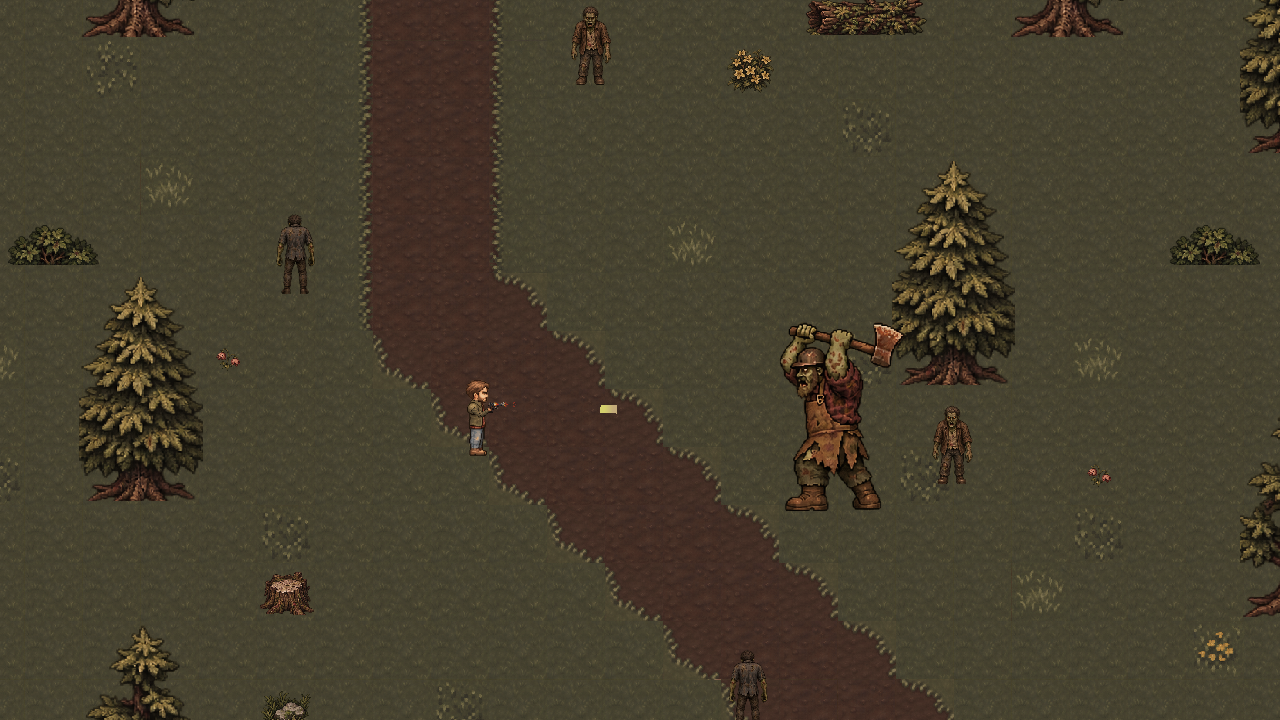
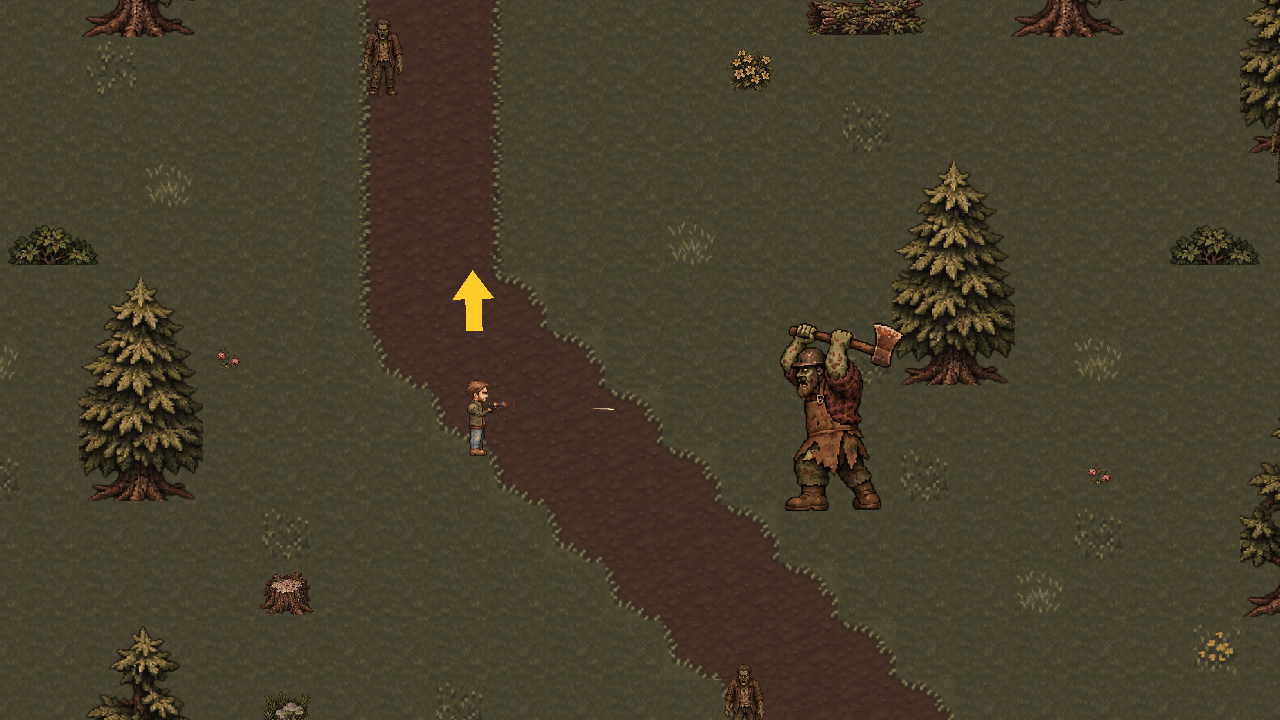
Atualiza textos, créditos e capturas da gameplay v3

diff --git a/docs/index.html b/docs/index.html
@@ -10,7 +10,7 @@
   <meta property="og:description" content="Duas regiões. Um carro quebrado. Nenhuma garantia de voltar. Jogue gratuitamente no Windows.">
   <meta property="og:type" content="website">
   <meta property="og:locale" content="pt_BR">
-  <meta property="og:image" content="https://leucimar.github.io/ultima-rota/assets/screenshot1.png?v=20261113">
+  <meta property="og:image" content="https://leucimar.github.io/ultima-rota/assets/screenshot1.png?v=20261114">
   <meta property="og:url" content="https://leucimar.github.io/ultima-rota/">
   <meta name="twitter:card" content="summary_large_image">
   <link rel="canonical" href="https://leucimar.github.io/ultima-rota/">
@@ -18,10 +18,10 @@
   <link rel="preconnect" href="https://fonts.googleapis.com">
   <link rel="preconnect" href="https://fonts.gstatic.com" crossorigin>
   <link href="https://fonts.googleapis.com/css2?family=Barlow+Condensed:wght@500;600;700;800&family=DM+Sans:wght@400;500;600;700&display=swap" rel="stylesheet">
-  <link rel="stylesheet" href="style.css?v=20261113">
-  <link rel="stylesheet" href="refresh.css?v=20261113">
-  <script src="site-config.js?v=20261113" defer></script>
-  <script src="script.js?v=20261113" defer></script>
+  <link rel="stylesheet" href="style.css?v=20261114">
+  <link rel="stylesheet" href="refresh.css?v=20261114">
+  <script src="site-config.js?v=20261114" defer></script>
+  <script src="script.js?v=20261114" defer></script>
 </head>
 <body>
   <a class="skip" href="#conteudo">Pular para o conteúdo</a>
@@ -53,17 +53,15 @@
         <a class="button primary download-link" href="https://github.com/leucimar/ultima-rota/releases/latest/download/UltimaRota-Windows-x64.zip"><svg aria-hidden="true"><use href="#icon-download"/></svg> BAIXAR PARA WINDOWS <svg class="button-arrow" aria-hidden="true"><use href="#arrow"/></svg></a>
         <p class="download-meta"><svg><use href="#windows"/></svg> Windows 64 bits <span>·</span> Gratuito <span class="release-details">· v0.1.0 · 79,4 MB</span></p>
       </div>
-      <div class="hero-side" aria-hidden="true"><span>RELATÓRIO DE CAMPO — 01</span><i></i><span>DESTINO: NORTE ↑</span></div>
       <div class="hero-bottom wrap"><a href="#sobre">EXPLORE A ÚLTIMA ROTA <span>↓</span></a><span>UMA EXPEDIÇÃO. NENHUMA GARANTIA.</span></div>
     </section>
 
     <div class="ticker" aria-hidden="true"><div>EXPLORE <span>✳</span> SOBREVIVA <span>✳</span> EVOLUA <span>✳</span> ENCONTRE SUA ROTA <span>✳</span> EXPLORE <span>✳</span> SOBREVIVA <span>✳</span> EVOLUA <span>✳</span></div></div>
-    <aside class="version-note wrap" aria-label="Versão das imagens e do download"><span class="version-tag">VISUAL RENOVADO</span><p>As capturas mostram a versão em desenvolvimento: novos cenários, personagens e inimigos. O download disponível continua sendo a <strong>v0.1.0</strong>.</p></aside>
 
     <section class="about section wrap" id="sobre" aria-labelledby="about-title">
       <div class="section-index"><span>01 / O JOGO</span><span>QUANDO OS RUMORES SE TORNAM REAIS.</span></div>
       <div class="about-layout">
-        <div class="about-art"><img src="assets/screenshot1.png?v=20261113" width="1280" height="720" loading="lazy" alt="O fazendeiro e seu carro próximo ao celeiro, na floresta de Última Rota."><span class="image-label"><span class="live-dot"></span> PONTO DE PARTIDA / A FAZENDA</span><div class="art-corner" aria-hidden="true">↑<br>NORTE</div></div>
+        <div class="about-art"><img src="assets/screenshot1.png?v=20261114" width="1280" height="720" loading="lazy" alt="O fazendeiro e seu carro próximo ao celeiro, na floresta de Última Rota."><span class="image-label"><span class="live-dot"></span> PONTO DE PARTIDA / A FAZENDA</span></div>
         <div class="about-copy"><p class="eyebrow muted">NÃO DÁ PARA FICAR.</p><h2 id="about-title">UM CARRO QUEBRADO.<br>UM MUNDO <em>EM RUÍNAS.</em></h2>
           <p>Um fazendeiro escuta rumores sobre um vírus e uma região segura ao norte. Quando encontra seu rebanho atacado, fugir deixa de ser uma escolha.</p>
           <p>Mas o carro não funciona. Para repará-lo, você precisa atravessar as zonas da floresta, encontrar um mapa no acampamento e chegar à cidade em busca de uma chave, combustível e uma bateria.</p>
@@ -86,13 +84,13 @@
     </div></section>
 
     <section class="media section wrap" id="midia" aria-labelledby="media-title">
-      <div class="section-index"><span>03 / DENTRO DO JOGO</span><span>CAPTURAS ATUALIZADAS / EM DESENVOLVIMENTO</span></div>
+      <div class="section-index"><span>03 / DENTRO DO JOGO</span><span>CAPTURAS DO JOGO</span></div>
       <div class="section-heading"><h2 id="media-title">O PERIGO NÃO<br><em>FICA PARADO.</em></h2><p>Floresta, cidade e ameaças com arte renovada.<br>Selecione uma imagem para ampliar.</p></div>
       <!-- Troque estes PNGs por novas capturas mantendo os nomes; não há build da página. -->
       <div class="gallery">
-        <a class="shot shot-wide" href="assets/screenshot2.png?v=20261113" data-caption="A cidade — ruas e construções com arte renovada. Captura da versão em desenvolvimento."><img src="assets/screenshot2.png?v=20261113" loading="lazy" width="1280" height="720" alt="O sobrevivente nas ruas da cidade à noite, com construções detalhadas e postes acesos."><span><b>01 / A CIDADE</b><i>EXPLORAR NÃO É ESTAR A SALVO.</i><strong aria-hidden="true">↗</strong></span></a>
-        <a class="shot" href="assets/screenshot3.png?v=20261113" data-caption="O acampamento — novas ameaças aguardam na viagem de retorno."><img src="assets/screenshot3.png?v=20261113" loading="lazy" width="1280" height="720" alt="Confronto com o Incendiário na região do acampamento."><span><b>02 / O RETORNO</b><i>O CAMINHO MUDOU.</i><strong aria-hidden="true">↗</strong></span></a>
-        <a class="shot" href="assets/screenshot4.png?v=20261113" data-caption="A floresta — derrote as ameaças para abrir sua próxima passagem."><img src="assets/screenshot4.png?v=20261113" loading="lazy" width="1280" height="720" alt="Combate contra um chefe na floresta em pixel art."><span><b>03 / O CONFRONTO</b><i>NÃO BAIXE A GUARDA.</i><strong aria-hidden="true">↗</strong></span></a>
+        <a class="shot shot-wide" href="assets/screenshot2.png?v=20261114" data-caption="A cidade — procure as peças, enfrente os zumbis e encontre o caminho de volta."><img src="assets/screenshot2.png?v=20261114" loading="lazy" width="1280" height="720" alt="O sobrevivente atirando nas ruas da cidade à noite, com os projéteis atualizados."><span><b>01 / A CIDADE</b><i>EXPLORAR NÃO É ESTAR A SALVO.</i><strong aria-hidden="true">↗</strong></span></a>
+        <a class="shot" href="assets/screenshot3.png?v=20261114" data-caption="O acampamento — novas ameaças aguardam na viagem de retorno."><img src="assets/screenshot3.png?v=20261114" loading="lazy" width="1280" height="720" alt="Confronto com o Incendiário na região do acampamento."><span><b>02 / O RETORNO</b><i>O CAMINHO MUDOU.</i><strong aria-hidden="true">↗</strong></span></a>
+        <a class="shot" href="assets/screenshot4.png?v=20261114" data-caption="A floresta — derrote as ameaças para abrir sua próxima passagem."><img src="assets/screenshot4.png?v=20261114" loading="lazy" width="1280" height="720" alt="Combate contra um chefe na floresta em pixel art."><span><b>03 / O CONFRONTO</b><i>NÃO BAIXE A GUARDA.</i><strong aria-hidden="true">↗</strong></span></a>
       </div>
       <div class="enemy-showcase" aria-labelledby="enemy-title"><div><p class="eyebrow muted">AS AMEAÇAS TAMBÉM MUDARAM.</p><h3 id="enemy-title">RECONHEÇA O PERIGO.</h3><p>Novas silhuetas, roupas desgastadas e pele deteriorada. Cada encontro pede uma reação diferente.</p></div><div class="enemy-roster"><figure><img src="assets/zumbi-normal.png" width="320" height="360" loading="lazy" alt="Zumbi normal com jaqueta marrom e pele esverdeada."><figcaption><span>01</span> NORMAL</figcaption></figure><figure><img src="assets/zumbi-corredor.png" width="320" height="360" loading="lazy" alt="Zumbi corredor magro, com camisa escura rasgada."><figcaption><span>02</span> VELOCISTA</figcaption></figure><figure><img src="assets/zumbi-tanque.png" width="320" height="360" loading="lazy" alt="Zumbi tanque, maior e mais robusto que os demais."><figcaption><span>03</span> TANQUE</figcaption></figure></div></div>
     </section>
@@ -102,9 +100,9 @@
       <div class="spec-panel"><div class="spec-title"><svg><use href="#windows"/></svg><h3>WINDOWS / CONFIGURAÇÃO DE REFERÊNCIA</h3></div><table><caption class="sr-only">Compatibilidade e configuração inicial sugerida</caption><tbody><tr><th scope="row">Sistema</th><td>Windows 10 ou 11 · 64 bits</td></tr><tr><th scope="row">Processador</th><td>x64 com suporte a SSE2</td></tr><tr><th scope="row">Memória</th><td>4 GB de RAM sugeridos</td></tr><tr><th scope="row">Gráficos</th><td>GPU compatível com DirectX 11</td></tr><tr><th scope="row">Armazenamento</th><td>1 GB livre sugerido</td></tr><tr><th scope="row">Controles</th><td>Teclado e mouse</td></tr></tbody></table><p class="spec-note">Referência inicial de compatibilidade. O hardware mínimo de desempenho ainda não foi medido em diferentes computadores. Internet necessária apenas para o download.</p></div>
     </div></section>
 
-    <section class="download section wrap" id="download" aria-labelledby="download-title"><div class="download-card"><div class="download-decoration" aria-hidden="true">↑</div><p class="eyebrow"><span class="live-dot"></span> A SUA ROTA COMEÇA AQUI.</p><h2 id="download-title">NÃO ESPERE<br><em>AMANHECER.</em></h2><p>Prepare a arma. Encontre as peças. Volte para o carro.<br>O norte ainda pode ser uma saída.</p><a class="button primary download-link" href="https://github.com/leucimar/ultima-rota/releases/latest/download/UltimaRota-Windows-x64.zip"><svg aria-hidden="true"><use href="#icon-download"/></svg> BAIXAR ÚLTIMA ROTA <svg class="button-arrow" aria-hidden="true"><use href="#arrow"/></svg></a><p class="download-meta"><svg><use href="#windows"/></svg> Windows 64 bits <span>·</span> Gratuito <span class="release-details">· v0.1.0 · 79,4 MB</span></p><p class="build-note">Download atual: v0.1.0. A atualização visual apresentada nesta página ainda está em desenvolvimento.</p><a class="release-link" href="https://github.com/leucimar/ultima-rota/releases/latest" target="_blank" rel="noopener noreferrer">Ver versão e informações do download ↗</a></div></section>
+    <section class="download section wrap" id="download" aria-labelledby="download-title"><div class="download-card"><div class="download-decoration" aria-hidden="true">↑</div><p class="eyebrow"><span class="live-dot"></span> A SUA ROTA COMEÇA AQUI.</p><h2 id="download-title">NÃO ESPERE<br><em>AMANHECER.</em></h2><p class="download-copy">Prepare a arma. Encontre as peças. Volte para o carro. O norte ainda pode ser uma saída.</p><a class="button primary download-link" href="https://github.com/leucimar/ultima-rota/releases/latest/download/UltimaRota-Windows-x64.zip"><svg aria-hidden="true"><use href="#icon-download"/></svg> BAIXAR ÚLTIMA ROTA <svg class="button-arrow" aria-hidden="true"><use href="#arrow"/></svg></a><p class="download-meta"><svg><use href="#windows"/></svg> Windows 64 bits <span>·</span> Gratuito <span class="release-details">· v0.1.0 · 79,4 MB</span></p><a class="release-link" href="https://github.com/leucimar/ultima-rota/releases/latest" target="_blank" rel="noopener noreferrer">Ver versão e informações do download ↗</a></div></section>
   </main>
-  <footer class="footer wrap"><div><a class="brand" href="#inicio"><span class="brand-mark" aria-hidden="true"><i></i></span>ÚLTIMA ROTA</a><p>Desenvolvimento: Leucimar e equipe Última Rota.<br>Ciência da Computação · UNIPAC · Projeto acadêmico, 2026.</p></div><div class="footer-right"><a class="repo-link" href="https://github.com/leucimar/ultima-rota" target="_blank" rel="noopener noreferrer">PROJETO NO GITHUB ↗</a><span>FEITO EM UNITY. FEITO PARA SOBREVIVER.</span></div></footer>
+  <footer class="footer wrap"><div class="footer-credits"><a class="brand" href="#inicio"><span class="brand-mark" aria-hidden="true"><i></i></span>ÚLTIMA ROTA</a><p class="team-credit">Desenvolvido pela equipe <strong>Gameplay &amp; CIA</strong><br><span class="team-members">Ana Maia, Carlos Eduardo, Evandro Portes, Leucimar Carvalho e Lucas Carmo</span></p><p class="course-credit">Ciência da Computação · UNIPAC · Projeto acadêmico, 2026.</p></div><div class="footer-right"><a class="repo-link" href="https://github.com/leucimar/ultima-rota" target="_blank" rel="noopener noreferrer">PROJETO NO GITHUB ↗</a><span>FEITO EM UNITY. FEITO PARA SOBREVIVER.</span></div></footer>
   <dialog class="lightbox" aria-labelledby="lightbox-caption"><button class="lightbox-close" aria-label="Fechar imagem">FECHAR <span>×</span></button><img alt=""><p id="lightbox-caption"></p></dialog>
 </body>
 </html>

diff --git a/docs/refresh.css b/docs/refresh.css
@@ -1,28 +1,22 @@
 /* Atualização visual de novembro/2026. Mantém a identidade e o layout da página. */
 .nav-cta { min-height: 46px; }
-.hero-backdrop { background-image: url('assets/screenshot1.png?v=20261113'); filter: brightness(.8) saturate(.9); }
+.hero-backdrop { background-image: url('assets/screenshot1.png?v=20261114'); filter: brightness(.8) saturate(.9); }
 .about-art img { filter: saturate(.95); }
 .shot img { filter: saturate(.96) brightness(.95); }
 .shot-wide { aspect-ratio: 16 / 9; }
-.version-note {
-  display: flex;
-  align-items: center;
-  gap: 22px;
-  padding-block: 24px;
-  border-bottom: 1px solid var(--line);
+/* Justifica os parágrafos de leitura; títulos, botões e metadados mantêm seu alinhamento. */
+p:not(.eyebrow):not(.download-meta):not(.hero-tagline) {
+  text-align: justify;
+  text-align-last: left;
+  hyphens: auto;
+  overflow-wrap: break-word;
 }
-.version-tag {
-  flex-shrink: 0;
-  padding: 6px 9px;
-  color: var(--accent);
-  border: 1px solid #687444;
-  background: #d1ef6308;
-  font-size: 9px;
-  font-weight: 700;
-  letter-spacing: 1.1px;
-}
-.version-note p { margin: 0; color: var(--muted); font-size: 11px; line-height: 1.8; }
-.version-note strong { color: var(--ink); font-weight: 500; }
+.download-card .download-copy { max-width: 430px; margin-inline: auto; }
+.footer-credits { min-width: 0; max-width: 760px; }
+.footer .team-credit { color: #b5c0aa; line-height: 2; }
+.team-credit strong { color: var(--ink); font-weight: 600; }
+.team-members { display: inline; }
+.footer .course-credit { margin-top: 6px; }
 .enemy-showcase {
   margin-top: 44px;
   display: grid;
@@ -41,11 +35,8 @@
 .enemy-roster img { width: 100%; height: auto; object-fit: contain; }
 .enemy-roster figcaption { padding-top: 8px; font: 600 17px var(--display); letter-spacing: 1px; }
 .enemy-roster figcaption span { color: var(--accent); font-size: 11px; margin-right: 5px; }
-.download-card .build-note { max-width: 430px; margin: 20px auto 0; font-size: 10px !important; line-height: 1.8; color: #b3bfa6; }
 @media (max-width: 760px) {
   .nav-cta span { display: none; }
-  .version-note { align-items: flex-start; flex-direction: column; gap: 12px; padding-block: 22px; }
-  .version-note p { font-size: 10px; }
   .enemy-showcase { grid-template-columns: 1fr; gap: 20px; padding: 24px 18px; }
   .enemy-showcase p:not(.eyebrow) { max-width: none; }
   .enemy-roster { gap: 4px; }

diff --git a/docs/PUBLICACAO.md b/docs/PUBLICACAO.md
@@ -16,11 +16,15 @@ Código da página: `docs/index.html`, `docs/style.css`, `docs/script.js` e `doc
 
 As imagens dos cenários ficam em `docs/assets/screenshot1.png` a `screenshot4.png`. Os retratos dos inimigos ficam em `zumbi-normal.png`, `zumbi-corredor.png` e `zumbi-tanque.png`, na mesma pasta. Substitua os arquivos mantendo os nomes. O complemento visual da revisão de novembro está em `docs/refresh.css`. A página usa HTML/CSS puros, sem instalação de dependências ou etapa de compilação. As fontes vêm do Google Fonts, com alternativas locais caso a rede esteja indisponível.
 
+### Revisão de 14/11/2026
+
+Novas capturas dos disparos a partir da branch `feature/gameplay-refactory-v3`, commit `82a2dd4`, incluindo os traçantes atuais das balas. Os parágrafos de leitura foram justificados, os elementos decorativos de norte e os avisos de versão foram removidos da landing page, e os créditos foram atualizados para Gameplay & CIA e seus cinco integrantes. O endereço permanente e os links de download continuam iguais.
+
 ### Revisão visual de 13/11/2026
 
 Capturas e retratos atualizados a partir da versão de desenvolvimento `feature/testes-upgrades-v2`, commit `fae7ae5`. Foram usados cenários e sprites reais, renderizados em uma cópia isolada da Unity. Os confrontos foram enquadrados temporariamente para apresentar a arte; não são gravações de uma partida completa.
 
-O ZIP da release **v0.1.0 foi mantido**, sem recompilação, substituição ou alteração de arquivos da release. A página informa que as imagens mostram uma versão em desenvolvimento mais recente que o executável disponível. Ao publicar um novo executável com o visual atualizado, revise esse aviso e os valores `version`/`size` em `site-config.js`.
+O ZIP da release **v0.1.0 foi mantido**, sem recompilação, substituição ou alteração de arquivos da release. Ao publicar outro executável, atualize os valores `version`/`size` em `site-config.js` e os metadados equivalentes no HTML.
 
 Os três botões de download, incluindo **Jogue grátis** no cabeçalho, apontam diretamente ao ZIP da última release e funcionam sem JavaScript. O ícone SVG usa `icon-download`, evitando conflito com a seção `download`. Ao trocar imagens/CSS/JS, atualize também o parâmetro de revisão `?v=` no HTML para os visitantes receberem a versão nova.
 

diff --git a/README.md b/README.md
@@ -12,4 +12,7 @@ A publicação usa a branch `feature/Ultima_Rota_Page` e a pasta `/docs`. Edite 
 
 Este repositório contém somente o site e a distribuição em Releases. O código-fonte do jogo continua no repositório privado da equipe. Não envie o histórico, Assets ou scripts C# do projeto para cá.
 
-Leucimar e equipe Última Rota · 2026.
+Desenvolvido pela equipe **Gameplay & CIA**.<br>
+Ana Maia, Carlos Eduardo, Evandro Portes, Leucimar Carvalho e Lucas Carmo.
+
+Ciência da Computação · UNIPAC · 2026.
